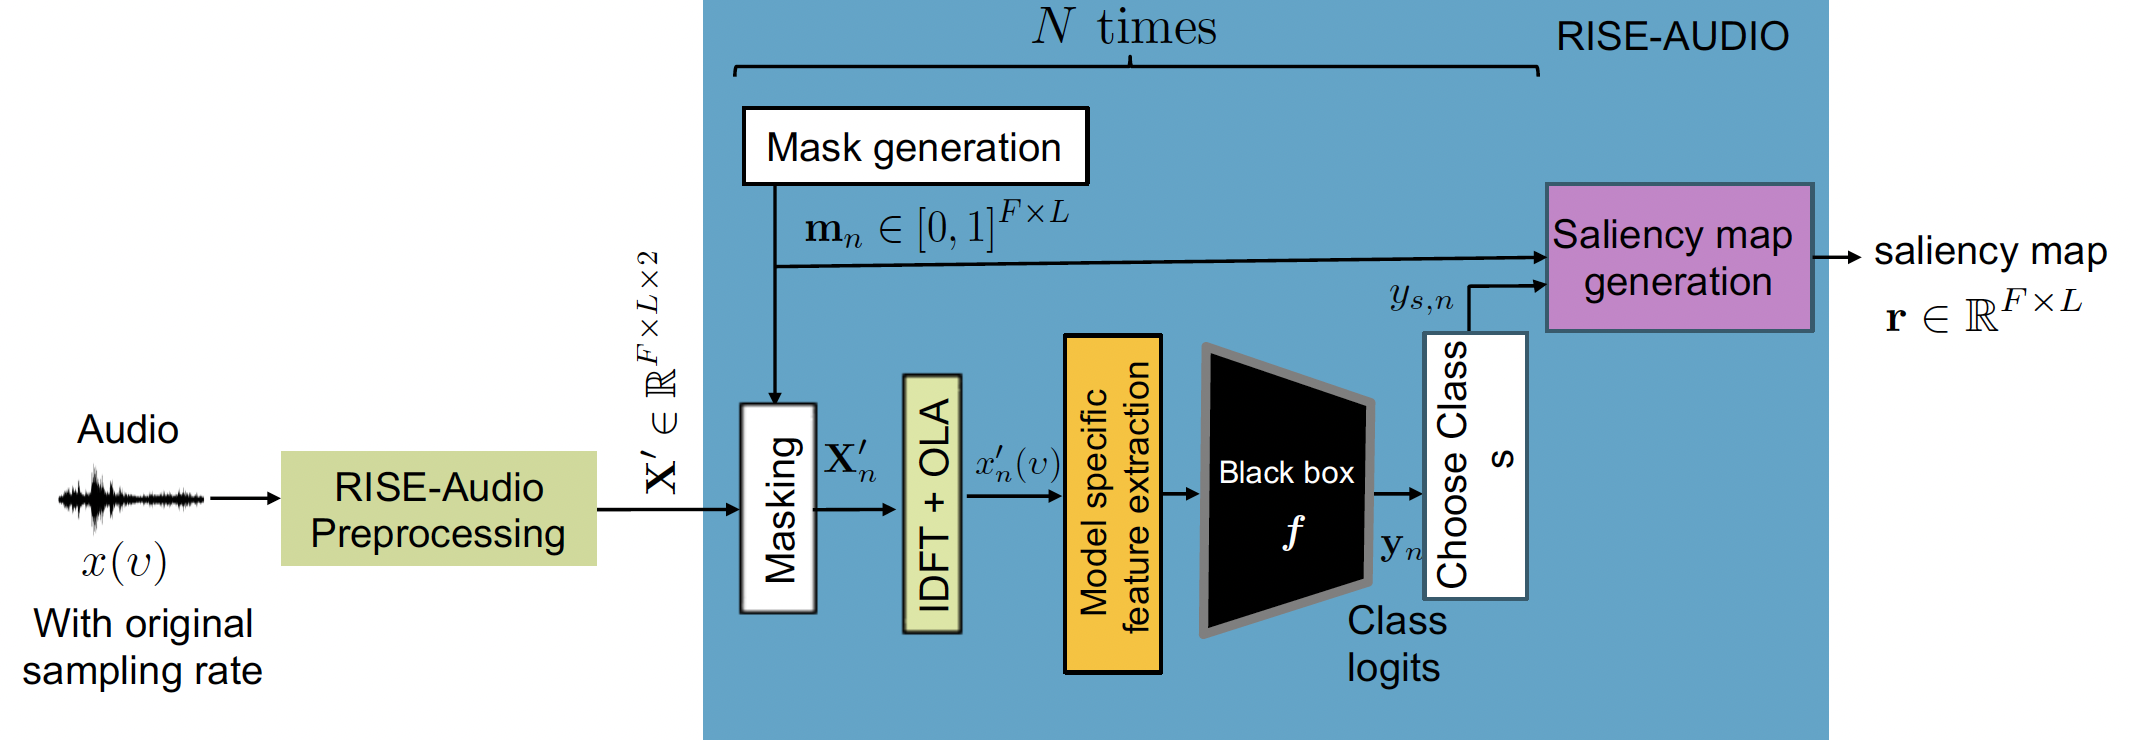
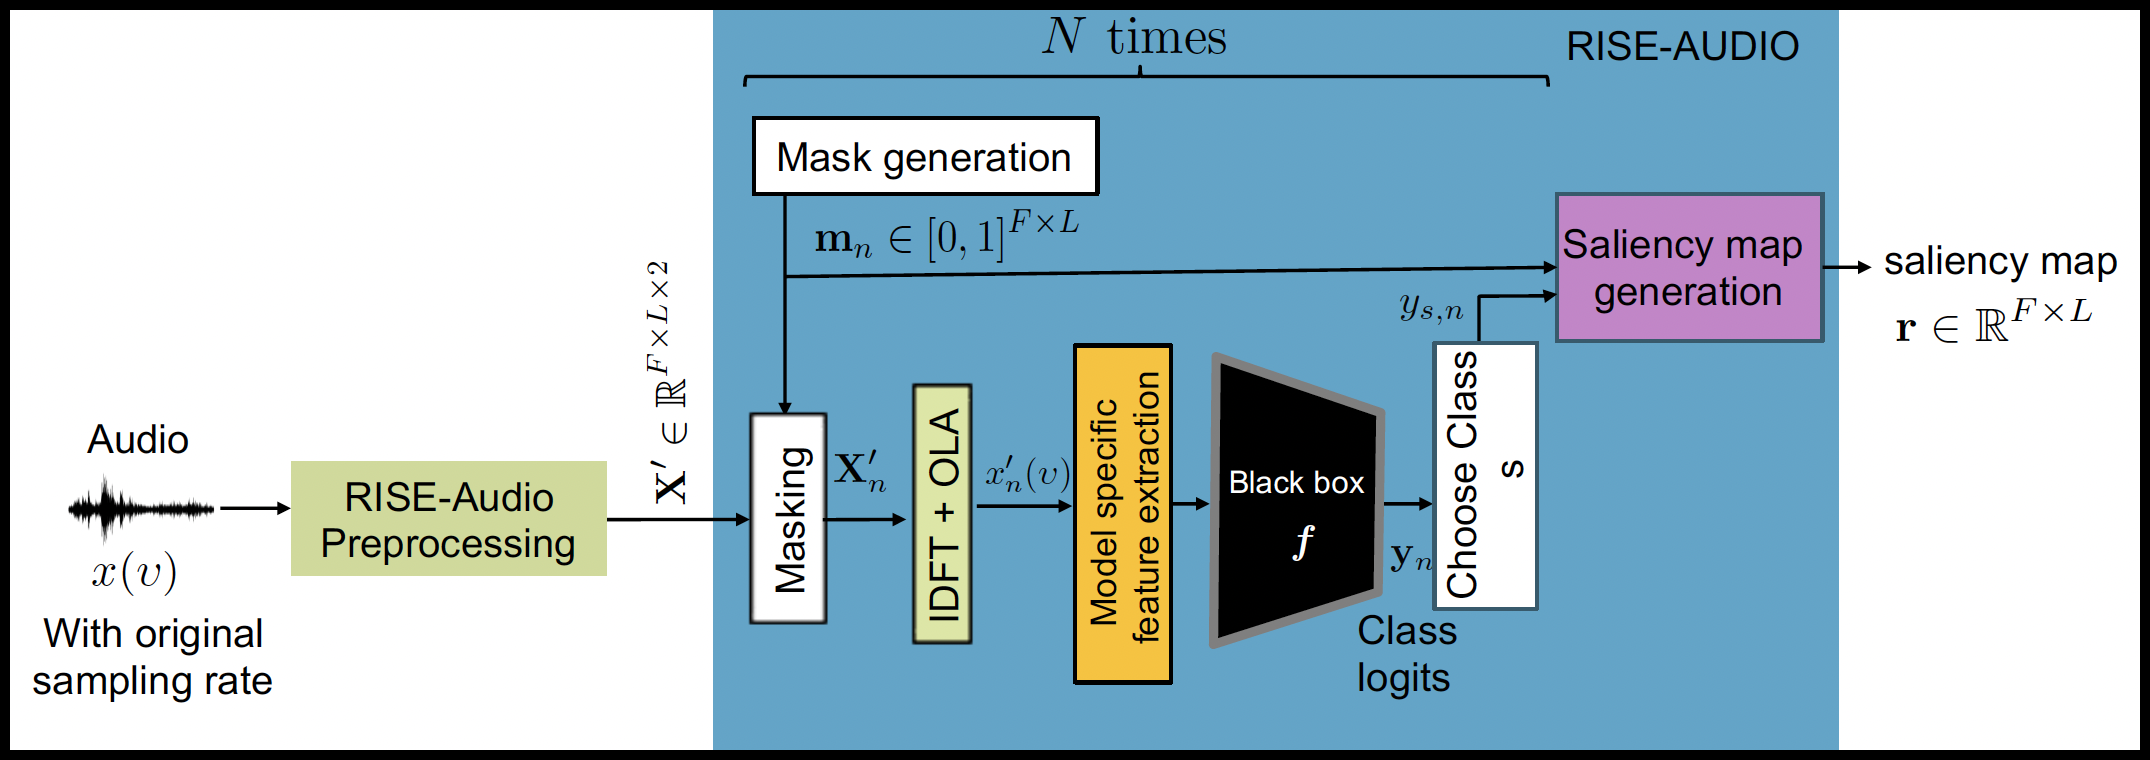
adding readme

Changed region(s): [[0.0, 0.0, 1.0, 1.0], [0.5577, 0.4662, 0.5887, 0.4973]]

diff --git a/README.md b/README.md
@@ -4,9 +4,7 @@
 
 This repository introduces a novel, model-agnostic Explainable AI (XAI) framework tailored specifically for audio classification tasks. It features three specialized architectures: RISE-SPEC, RISE-WAVE, and RISE-AUDIO which consistently outperform traditional baseline XAI methods, including RISE, LIME, and Grad-CAM.
 
-<p style="display:inline-block; border: 2px solid black;">
-  <img src="Thesis_Results/RISE_Audio_Architecture.png" width="600" alt="Alt text">
-</p>
+<img src="Thesis_Results/RISE_Audio_Architecture.png" width="600" alt="Alt text">
 
 ## XAI Evaluation on ESC-50
 